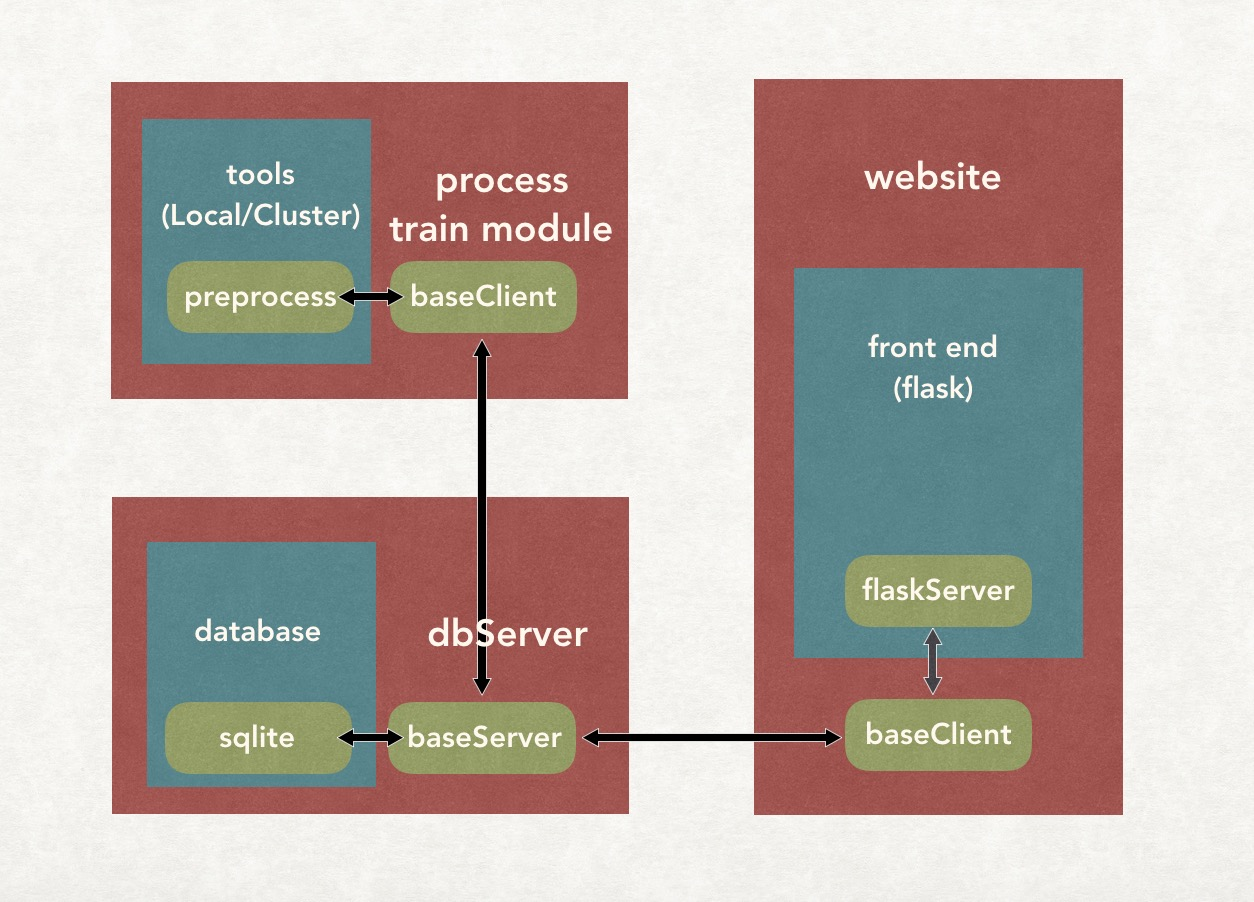
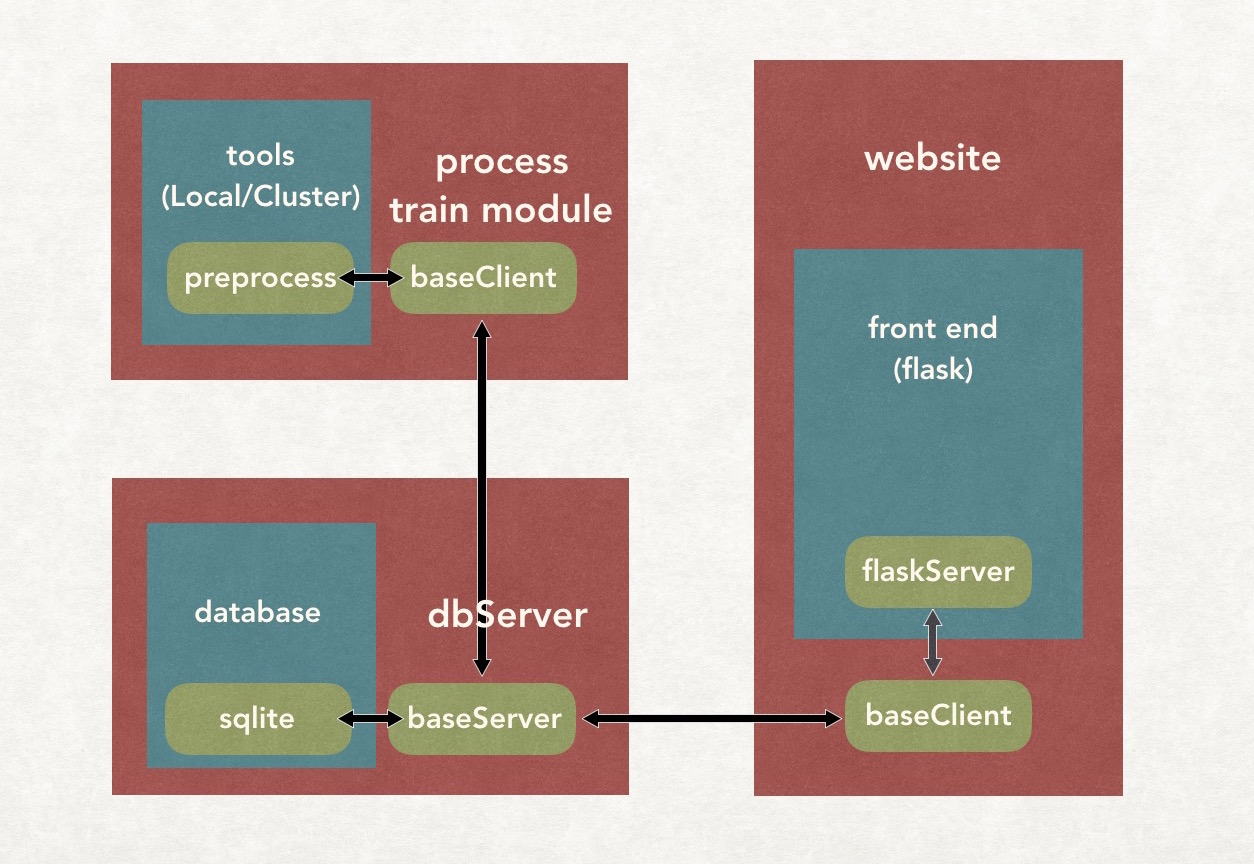
fix bugs of img size

diff --git a/frontend/app/templates/index.html b/frontend/app/templates/index.html
@@ -169,10 +169,10 @@
             <br>
             <div class="col-md-12">
                 <div class="col-md-6">
-                    <img src="static/images/sys1.jpg"  height="350" />
+                    <img src="static/images/sys1.jpg"  width="100%" />
                 </div>
                 <div class="col-md-6">
-                    <img src="static/images/sys2.jpg"  height="350" />
+                    <img src="static/images/sys2.jpg"  width="100%" />
                 </div>
             </div>
         </div><!--//container-->
